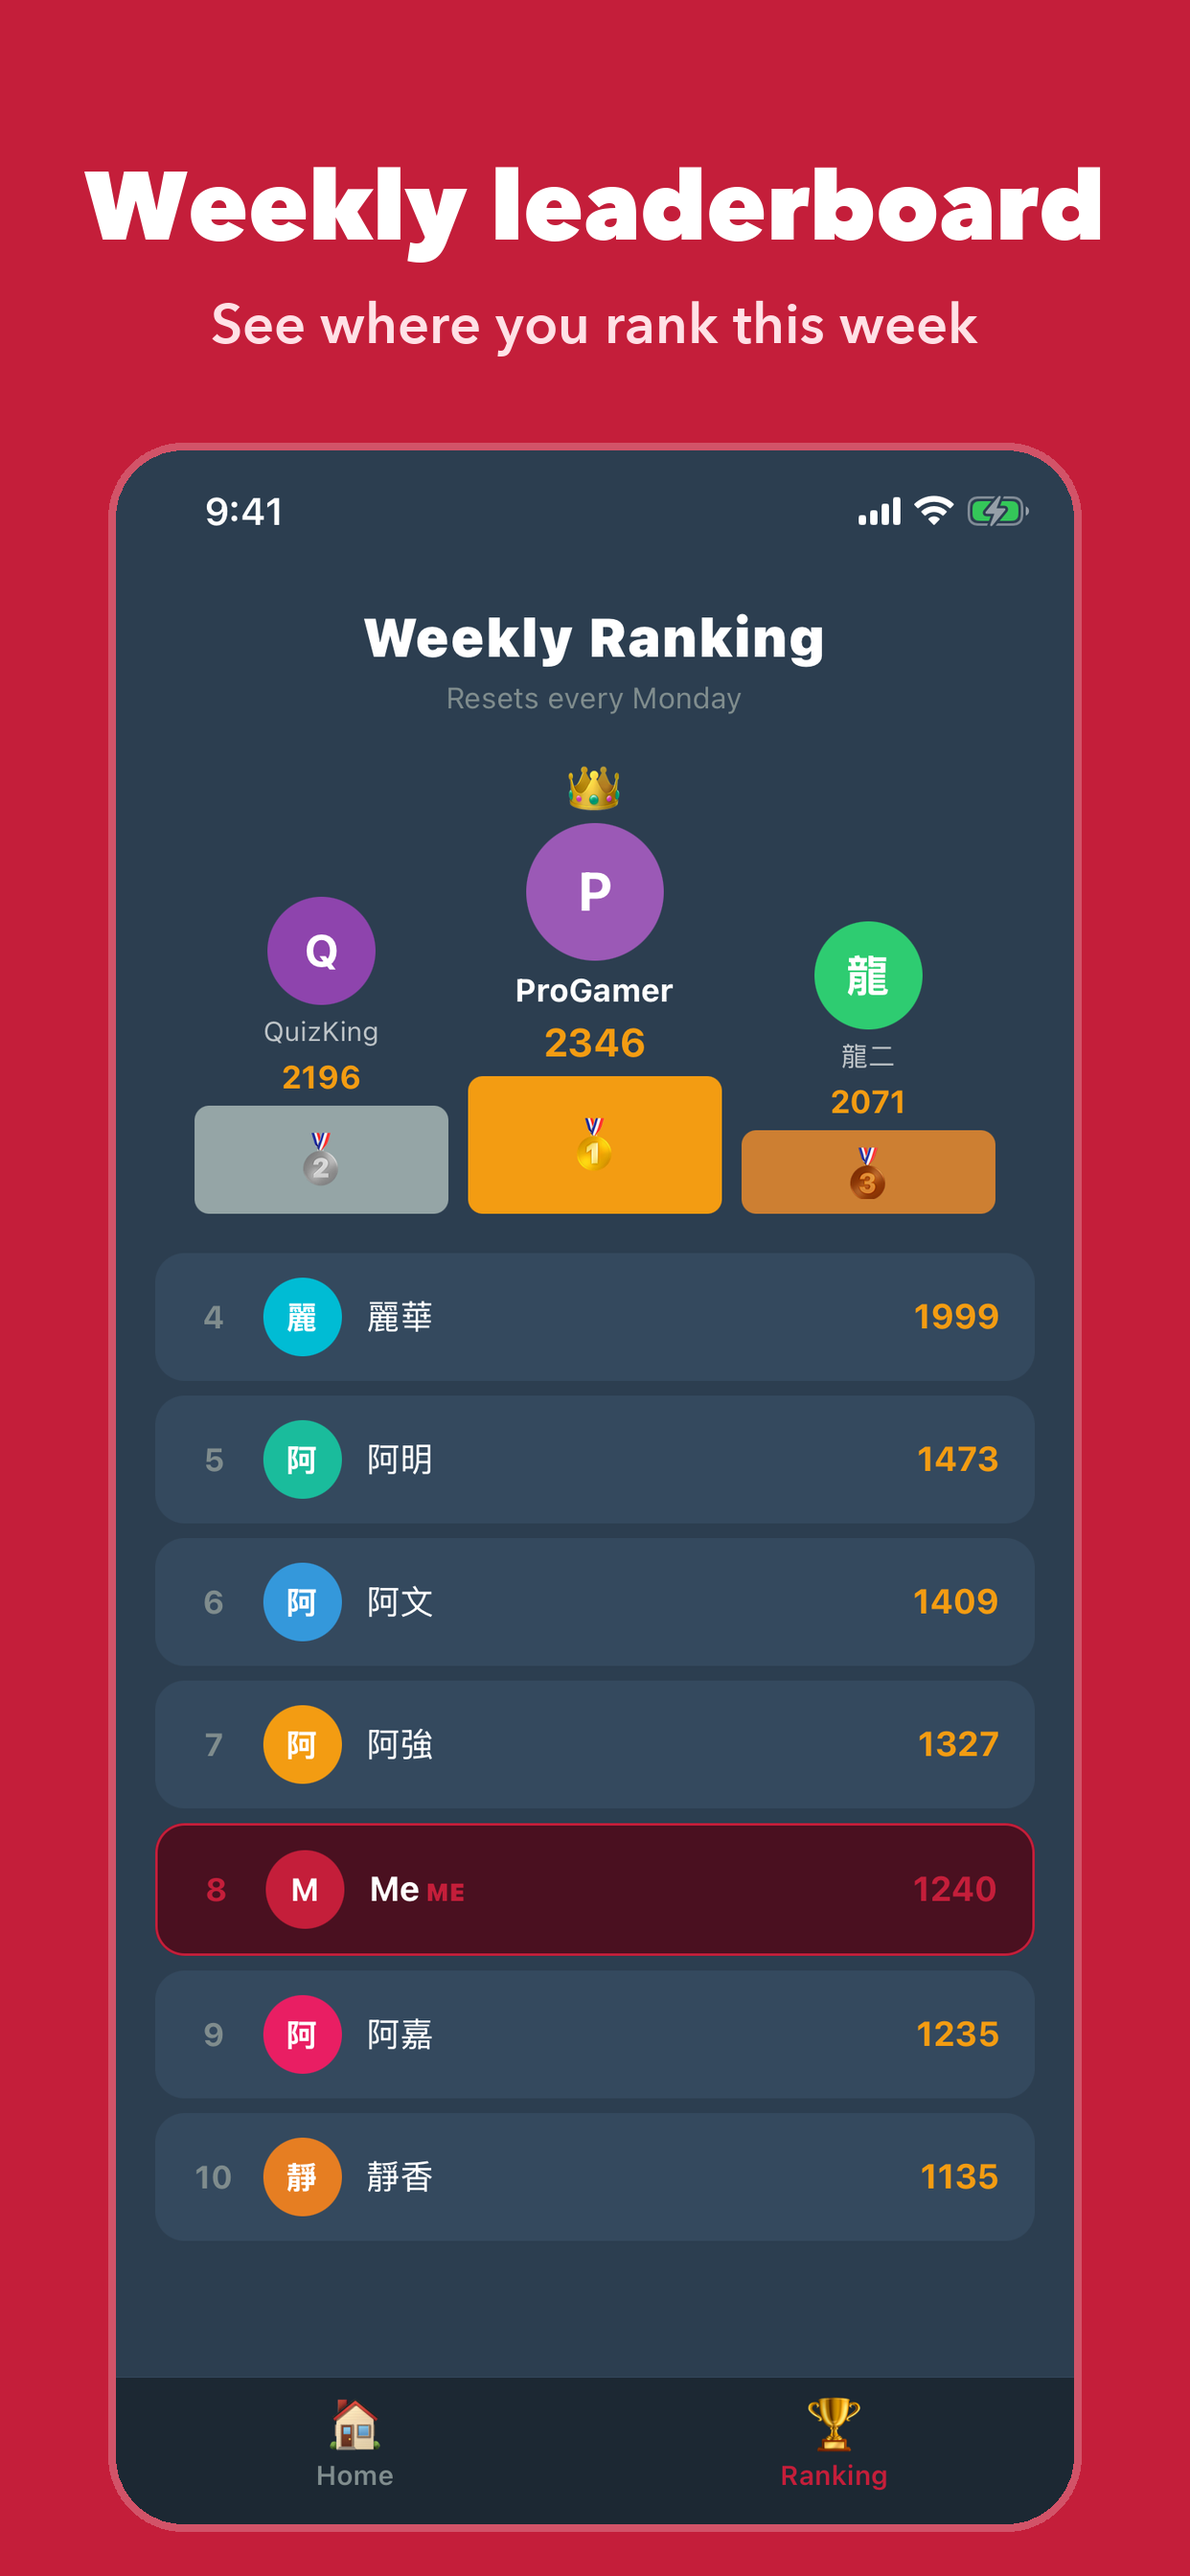
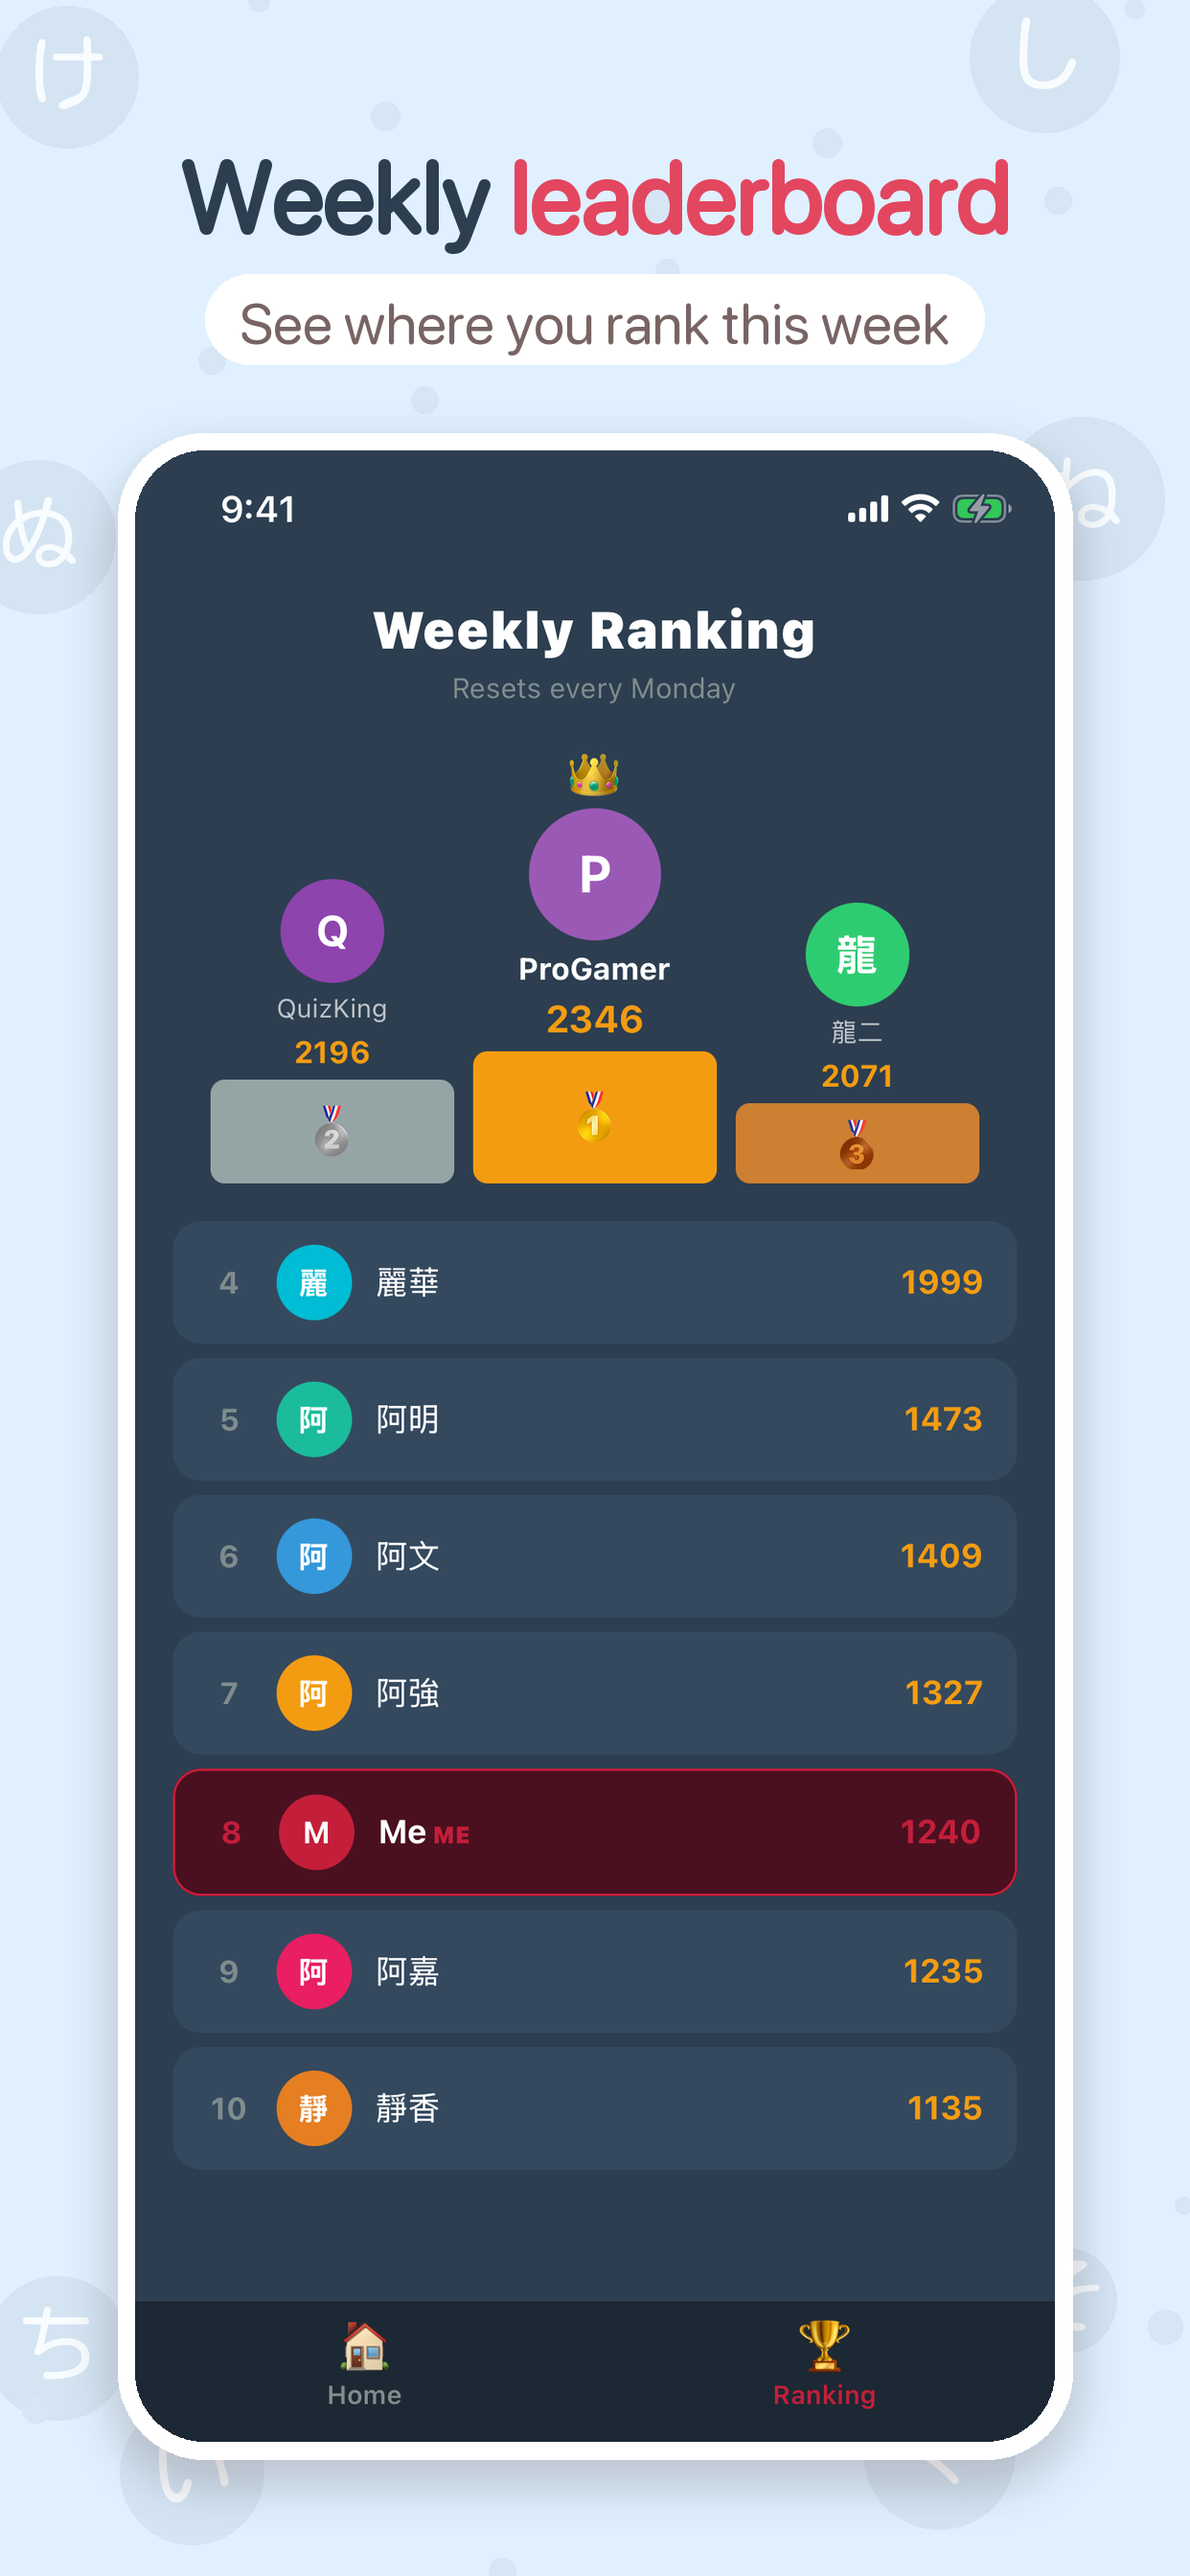
appstore: switch screenshots to a softer pastel style
Feedback: the full red background felt intimidating. New style: one
pastel background per screen (sakura, mint, butter, lavender, sky),
navy + soft red headline, white pill subline, white bezel with soft
shadow, floating kana bubbles. Chinese text uses jf open 粉圓 (OFL),
English uses SF Rounded.

diff --git a/scripts/compose_appstore_screenshots.py b/scripts/compose_appstore_screenshots.py
@@ -1,48 +1,54 @@
-"""Compose App Store screenshots (1242x2688, 6.5") from raw simulator shots.
+"""Compose App Store screenshots (1242x2688, 6.5") in the cute pastel style.
 
-Usage: python3 scripts/compose_appstore_screenshots.py <raw_dir with en/ zh/> <out_dir>
-Raw shots: 1170x2532 simulator screenshots named battle1/correct/home/result/rank.png.
-Captions live in CAPTIONS below; keep them in sync with docs/appstore/listing.md.
+Usage:
+  python3 scripts/compose_appstore_screenshots.py <raw_dir> <out_dir> pastel <zh_font.ttf>
+
+- raw_dir has en/ and zh/ with 1170x2532 simulator shots named
+  battle1 / correct / home / result / rank .png
+- zh_font: jf open 粉圓 (SIL OFL, free for commercial use), not stored in the repo:
+  https://github.com/justfont/open-huninn-font/releases/download/v2.1/jf-openhuninn-2.1.ttf
+- English uses the macOS system SF Rounded font.
+- Captions live in CAPTIONS below; keep them in sync with docs/appstore/listing.md.
+- Style "pastel": one pastel background per screen, navy + soft red headline,
+  white pill subline, white bezel phone with soft shadow, floating kana bubbles.
 """
 import os
+import random
 import sys
-from PIL import Image, ImageDraw, ImageFont
+from PIL import Image, ImageDraw, ImageFont, ImageFilter
 
-SRC = sys.argv[1]   # dir with en/ and zh/ raw shots
-OUT = sys.argv[2]
+RAW, OUT, STYLE = sys.argv[1], sys.argv[2], sys.argv[3]
+ZH_FONT = sys.argv[4] if len(sys.argv) > 4 else '/System/Library/Fonts/STHeiti Medium.ttc'
 W, H = 1242, 2688
-BG = (196, 30, 58)          # brand red #C41E3A
-WHITE = (255, 255, 255)
-SUB = (255, 225, 230)
+NAVY = (44, 62, 80)
+RED = (226, 71, 95)        # softer than the app's #C41E3A
 
-FONTS = {
-    'zh': {'head': ('/System/Library/Fonts/STHeiti Medium.ttc', 0, 104),
-           'sub': ('/System/Library/Fonts/STHeiti Medium.ttc', 0, 58)},
-    'en': {'head': ('/System/Library/Fonts/Avenir Next.ttc', 8, 100),
-           'sub': ('/System/Library/Fonts/Avenir Next.ttc', 2, 58)},
-}
+PASTELS = [(255, 228, 234), (223, 245, 236), (255, 243, 204), (236, 230, 255), (224, 240, 255)]
+CREAM = (255, 246, 238)
 
 CAPTIONS = {
     'zh': [
-        ('battle1', '1 對 1 日文單字對戰', '和 AI 對手限時搶答'),
-        ('correct', '10 秒搶答', '越快答對，分數越高'),
-        ('home', 'N4 到 N2 任你選', '640 個單字，中英雙語'),
-        ('result', '打贏對手，累積升級', '每一題的答案都看得到'),
-        ('rank', '每週排行榜', '看看你這週排第幾'),
+        ('battle1', ['1 對 1 ', '日文單字對戰'], '和 AI 對手限時搶答'),
+        ('correct', ['10 秒', '搶答'], '越快答對，分數越高'),
+        ('home', ['N4 到 N2 ', '任你選'], '640 個單字，中英雙語'),
+        ('result', ['打贏對手，', '累積升級'], '每一題的答案都看得到'),
+        ('rank', ['每週', '排行榜'], '看看你這週排第幾'),
     ],
     'en': [
-        ('battle1', 'Japanese vocab battles', 'Race an AI opponent'),
-        ('correct', '10 seconds per question', 'Answer faster, score higher'),
-        ('home', 'Pick your level: N4 to N2', '640 words, English and Chinese'),
-        ('result', 'Win and level up', 'Review every answer'),
-        ('rank', 'Weekly leaderboard', 'See where you rank this week'),
+        ('battle1', ['Japanese ', 'vocab battles'], 'Race an AI opponent'),
+        ('correct', ['10 seconds ', 'per question'], 'Answer faster, score higher'),
+        ('home', ['Pick your level: ', 'N4 to N2'], '640 words, English and Chinese'),
+        ('result', ['Win and ', 'level up'], 'Review every answer'),
+        ('rank', ['Weekly ', 'leaderboard'], 'See where you rank this week'),
     ],
 }
+KANA = 'あいうえおかきくけこさしすせそたちつてとなにぬねの'
 
 
-def font(spec):
-    path, idx, size = spec
-    return ImageFont.truetype(path, size, index=idx)
+def fonts(lang, size):
+    if lang == 'zh':
+        return ImageFont.truetype(ZH_FONT, size)
+    return ImageFont.truetype('/System/Library/Fonts/SFNSRounded.ttf', size)
 
 
 def rrect(draw, box, r, fill):
@@ -53,41 +59,84 @@ def rrect(draw, box, r, fill):
         draw.pieslice([cx, cy, cx + 2 * r, cy + 2 * r], a, a + 90, fill=fill)
 
 
-def rounded(img, r):
-    mask = Image.new('L', img.size, 0)
-    rrect(ImageDraw.Draw(mask), [0, 0, img.size[0] - 1, img.size[1] - 1], r, 255)
-    out = Image.new('RGBA', img.size)
-    out.paste(img, (0, 0), mask)
-    return out
+def decorate(canvas, bg, seed):
+    """Soft floating kana bubbles and dots."""
+    rnd = random.Random(seed)
+    layer = Image.new('RGBA', canvas.size, (0, 0, 0, 0))
+    d = ImageDraw.Draw(layer)
+    tint = tuple(max(0, c - 28) for c in bg)
+    kana_font = ImageFont.truetype(ZH_FONT, 90)
+    spots = [(70, 80), (1090, 60), (40, 560), (1130, 520), (60, 2450), (1110, 2400), (980, 2560), (200, 2580)]
+    for x, y in spots:
+        r = rnd.randint(55, 85)
+        d.ellipse([x - r, y - r, x + r, y + r], fill=tint + (110,))
+        ch = rnd.choice(KANA)
+        tw, th = d.textsize(ch, font=kana_font)
+        d.text((x - tw / 2, y - th / 2 - 8), ch, font=kana_font, fill=(255, 255, 255, 200))
+    for _ in range(26):
+        x, y = rnd.randint(0, W), rnd.choice([rnd.randint(0, 600), rnd.randint(2300, H)])
+        r = rnd.randint(8, 18)
+        d.ellipse([x - r, y - r, x + r, y + r], fill=tint + (90,))
+    canvas.paste(layer, (0, 0), layer)
 
 
-def centered(draw, y, text, spec, fill, max_w=1120):
-    path, idx, size = spec
+def headline(draw, y, parts, lang, max_w=1120):
+    size = 112 if lang == 'zh' else 104
     while True:
-        f = ImageFont.truetype(path, size, index=idx)
-        w = draw.textsize(text, font=f)[0]
-        if w <= max_w or size <= 40:
+        f = fonts(lang, size)
+        widths = [draw.textsize(p, font=f)[0] for p in parts]
+        if sum(widths) <= max_w or size <= 50:
             break
         size -= 2
-    draw.text(((W - w) / 2, y), text, font=f, fill=fill)
+    x = (W - sum(widths)) / 2
+    for p, w, col in zip(parts, widths, (NAVY, RED)):
+        draw.text((x, y), p, font=f, fill=col, stroke_width=3 if lang == 'zh' else 2, stroke_fill=col)
+        x += w
+
+
+def sub(draw, y, text, lang):
+    f = fonts(lang, 60)
+    w = draw.textsize(text, font=f)[0]
+    pad = 36
+    rrect(draw, [(W - w) / 2 - pad, y - 14, (W + w) / 2 + pad, y + 80], 47, (255, 255, 255))
+    draw.text(((W - w) / 2, y), text, font=f, fill=(120, 100, 100))
+
+
+def phone(canvas, shot, top):
+    sw = 960
+    sh = round(shot.height * sw / shot.width)
+    shot = shot.resize((sw, sh), Image.LANCZOS)
+    mask = Image.new('L', (sw, sh), 0)
+    rrect(ImageDraw.Draw(mask), [0, 0, sw - 1, sh - 1], 72, 255)
+    x = (W - sw) // 2
+    # soft shadow + white bezel
+    shadow = Image.new('RGBA', canvas.size, (0, 0, 0, 0))
+    rrect(ImageDraw.Draw(shadow), [x - 18, top + 6, x + sw + 18, top + sh + 40], 92, (120, 90, 90, 70))
+    shadow = shadow.filter(ImageFilter.GaussianBlur(24))
+    canvas.paste(shadow, (0, 0), shadow)
+    bezel = Image.new('RGBA', canvas.size, (0, 0, 0, 0))
+    rrect(ImageDraw.Draw(bezel), [x - 18, top - 18, x + sw + 18, top + sh + 18], 90, (255, 255, 255, 255))
+    canvas.paste(bezel, (0, 0), bezel)
+    canvas.paste(shot, (x, top), mask)
 
 
 for lang, items in CAPTIONS.items():
     os.makedirs(os.path.join(OUT, lang), exist_ok=True)
-    for n, (name, head, sub) in enumerate(items, 1):
-        canvas = Image.new('RGB', (W, H), BG)
+    for n, (name, parts, subtext) in enumerate(items, 1):
+        bg = PASTELS[n - 1] if STYLE == 'pastel' else CREAM
+        canvas = Image.new('RGB', (W, H), bg)
+        decorate(canvas, bg if STYLE == 'pastel' else (255, 214, 222), n)
         d = ImageDraw.Draw(canvas)
-        centered(d, 150, head, FONTS[lang]['head'], WHITE)
-        centered(d, 300, sub, FONTS[lang]['sub'], SUB)
-        shot = Image.open(os.path.join(SRC, lang, f'{name}.png')).convert('RGB')
-        sw = 1000
-        sh = round(shot.height * sw / shot.width)
-        shot = rounded(shot.resize((sw, sh), Image.LANCZOS), 70)
-        # thin white frame for contrast against the red background
-        frame = Image.new('RGBA', (sw + 16, sh + 16))
-        rrect(ImageDraw.Draw(frame), [0, 0, sw + 15, sh + 15], 78, (255, 255, 255, 60))
-        top = 470
-        canvas.paste(frame, ((W - sw - 16) // 2, top - 8), frame)
-        canvas.paste(shot, ((W - sw) // 2, top), shot)
+        headline(d, 140, parts, lang)
+        sub(d, 300, subtext, lang)
+        phone(canvas, Image.open(os.path.join(RAW, lang, f'{name}.png')).convert('RGB'), 470)
         canvas.save(os.path.join(OUT, lang, f'{n}_{name}.png'))
-        print(lang, n, name, canvas.size)
+
+for lang in ('zh', 'en'):
+    files = sorted(f for f in os.listdir(os.path.join(OUT, lang)) if f.endswith('.png'))
+    ims = [Image.open(os.path.join(OUT, lang, f)).resize((248, 538)) for f in files]
+    sheet = Image.new('RGB', (258 * 5 - 10, 538), (40, 40, 40))
+    for i, im in enumerate(ims):
+        sheet.paste(im, (i * 258, 0))
+    sheet.save(os.path.join(OUT, f'preview_{lang}.png'))
+print('done', STYLE)

diff --git a/docs/appstore/listing.md b/docs/appstore/listing.md
@@ -108,7 +108,7 @@ GREAT FOR
 
 ## 截圖（6.5 吋，1242 × 2688）
 
-檔案在 `docs/appstore/screenshots/{zh,en}/`，依檔名順序上傳。用 `scripts/compose_appstore_screenshots.py` 從模擬器原始截圖合成。
+檔案在 `docs/appstore/screenshots/{zh,en}/`，依檔名順序上傳。用 `scripts/compose_appstore_screenshots.py` 從模擬器原始截圖合成（粉彩可愛風：每張不同淡色底、平假名泡泡；中文字型 jf open 粉圓，下載方式見腳本開頭）。
 
 | # | 畫面 | 繁中標題 / 副標 | English headline / subline |
 |---|---|---|---|
